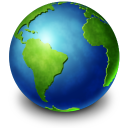
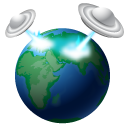
1b

diff --git a/index.html b/index.html
@@ -42,7 +42,7 @@ function MM_swapImage() { //v3.0
     </script>
 </head>
 
-<body onLoad="MM_preloadImages('imagenes/naturaleza_t.jpg','imagenes/descarga.jpg')">
+<body onLoad="MM_preloadImages('imagenes/naturaleza_t.jpg','imagenes/descarga.jpg','imagenes/mundo_en-tus_manos.jpg')">
 <div data-role="page" id="principal" data-theme="a">
 <div data-role="header" data-add-back-btn="true" data-back-btn-text="Regresar" data-back-btn-theme="a">
 <h1>Dia internacional de la Madre Tierra 22 de abril</h1>
@@ -124,7 +124,7 @@ function MM_swapImage() { //v3.0
     <br> <br> <br> <br> <br> <br> <br>
     <div data-role="collapsible" data-content-theme="false">
      <h1>Realizado por</h1>
-      <h2>Eulogio Rne Galvez Segundo</h2>
+      <h2>Eulogio Rene Galvez Segundo</h2>
        <p> 4 "G" </p>
        <h1>Especialidad:</h1>
        <p>Programacion</p>
@@ -176,6 +176,7 @@ function MM_swapImage() { //v3.0
  </center>
  <div data-role="footer" align="center" data-theme="a" data-position="fixed">
    <div>
+    <h4>Dia de la Madre Tierra </h4>
    <h4>Eulogio Rene Galvez Segundo</h4><img src="imagenes/mdpi.png" width="46" height="46">
    </div>
  </div>
@@ -191,9 +192,9 @@ function MM_swapImage() { //v3.0
 1970, 23 de enero. Survival Project (Proyecto para la Supervivencia), uno de los primeros eventos educacionales de conciencia ambiental, realizó uu encuentro en la Universidad Northwestern. Este fue el primero de varios eventos realizados en campus universitarios por todo Estados Unidos.
 1970, 22 de abril. Tuvo lugar la primera manifestación por el Día de la Tierra, promovida por el senador y activista ambiental Gaylord Nelson. En esta convocatoria participaron dos mil universidades y diez mil escuelas primarias. El efecto: el Gobierno de los Estados Unidos creó la Environmental Protection Agency (Agencia de Protección Ambiental).
 1972. Se celebró la primera conferencia internacional sobre el medio ambiente: la Cumbre de la Tierra de Estocolmo, cuyo objetivo fue sensibilizar a los líderes mundiales sobre la magnitud de los problemas ambientales. </p>
-   <img src="imagenes/Dia_de_la_tierra.jpg" width="60%" height="70%">
-  <div data-role="collapsible" data-content-theme="false">
-  </div>
+   <a href="#" onMouseOut="MM_swapImgRestore()" onMouseOver="MM_swapImage('Image10','','imagenes/mundo_en-tus_manos.jpg',1)"><img src="imagenes/Dia_de_la_tierra.jpg" width="60%" height="70%" id="Image10"></a>
+<div data-role="collapsible" data-content-theme="false">
+</div>
   </div>
   </center>
   <center>
@@ -209,6 +210,7 @@ function MM_swapImage() { //v3.0
   </center>
   <div data-role="footer" align="center" data-theme="a" data-position="fixed">
     <div>
+        <h4>Dia de la Madre Tierra </h4>
       <h4> Eulogio Rene Galvez Segundo</h4><img src="imagenes/mdpi.png" width="46" height="46">
     </div>
   </div>
@@ -240,6 +242,7 @@ La Tierra y sus ecosistemas son nuestro hogar. Para alcanzar un justo equilibrio
  </div>
 </center>
 <div data-role="footer" align="center" data-theme="a" data-position="fixed">
+   <h4>Dia de la Madre Tierra </h4>
  <h4>Eulogio Rene Galvez Segundo</h4>
  <img src="imagenes/mdpi.png" width="128" height="128">
 </div>
@@ -269,6 +272,7 @@ La Tierra y sus ecosistemas son nuestro hogar. Para alcanzar un justo equilibrio
 </center>
 
 <div data-role="footer" align="center" data-theme="a" data-position="fixed">
+   <h4>Dia de la Madre Tierra </h4>
   <h4>Eulogio Rene Galvez Segundo</h4>
   <img src="imagenes/mdpi.png" width="128" height="128" >
 </div>
@@ -299,6 +303,7 @@ La Tierra y sus ecosistemas son nuestro hogar. Para alcanzar un justo equilibrio
 </center>
 
 <div data-role="footer" align="center" data-theme="a" data-position="fixed">
+    <h4>Dia de la Madre Tierra </h4>
   <h4>Eulogio Rene Galvez Segundo</h4>
   <img src="imagenes/mdpi.png" width="128" height="128" >
 </div>
